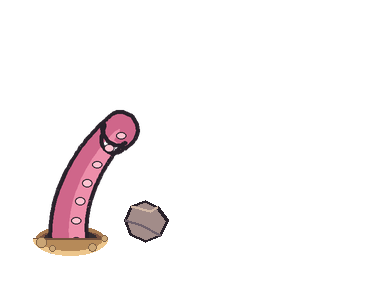
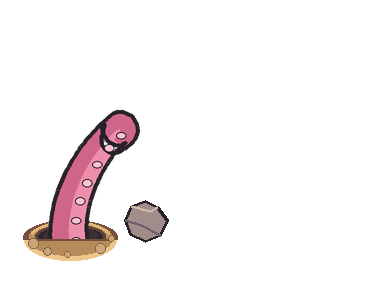
보스: 반쪽 난타와 지면 상호작용 개선

Changed region(s): [[0.0625, 0.75, 0.3125, 0.9062]]

diff --git a/tools/render_octopus_boss.py b/tools/render_octopus_boss.py
@@ -68,6 +68,17 @@ def strike(root,side,target,age,duration=1.16):
         (.84,pose(root,side,'rebound',target)),(1,pose(root,side,'idle'))]
     return interpolate(ks,u)
 
+def vertical_slam(root,side,target,age,duration=.48):
+    """A fixed socket winds up, lifts, and drives a broad tip straight down."""
+    x,y=root; tx,ty=target; s=side; u=max(0,min(1,age/duration))
+    idle=pose(root,side,'idle')
+    coil=[(x,y+14),(x-22*s,y-24),(x+8*s,y-92),(x+24*s,y-76)]
+    raised=[(x,y+14),(x+10*s,y-70),(tx-8*s,ty-148),(tx,ty-118)]
+    falling=[(x,y+14),(x+8*s,y-28),(tx-5*s,ty-40),(tx,ty)]
+    rebound=[(x,y+14),(x+8*s,y-36),(tx-15*s,ty-68),(tx-6*s,ty-46)]
+    keys=[(0,idle),(.18,coil),(.37,raised),(.56,falling),(.67,falling),(.80,rebound),(1,idle)]
+    return interpolate(keys,u)
+
 def arm(im,p,visibility=1,flat=0,ground_y=None):
     """Draw a new outline each frame; never stretch a flattened sprite."""
     pts=curve(p); left=[]; right=[]; normals=[]
@@ -95,8 +106,8 @@ def arm(im,p,visibility=1,flat=0,ground_y=None):
             x,y=pts[j]; nx,ny=normals[j]; x+=nx*7; y+=ny*7
             ell(d,(x-5,y-3.8,x+5,y+3.8),LIGHT,INK,1); last=distance
     if flat:
-        x,y=p[-1]; ell(d,(x-30,y-14,x+30,y+15),PINK,INK,3)
-        for dx in (-19,-6,7,20): ell(d,(x+dx-4,y-1,x+dx+4,y+5),LIGHT,INK)
+        x,y=p[-1]; ell(d,(x-39,y-14,x+39,y+15),PINK,INK,3)
+        for dx in (-29,-14,1,16,29): ell(d,(x+dx-4,y-1,x+dx+4,y+5),LIGHT,INK)
     layer=layer.resize((bw,bh),Image.Resampling.LANCZOS)
     if visibility<1:
         # Occlusion plane, not alpha fading: entire curve descends below ground.
@@ -109,14 +120,26 @@ def arm(im,p,visibility=1,flat=0,ground_y=None):
 def hole(im,r,front=False,activity=0):
     x,y=r; d=ImageDraw.Draw(im)
     if not front:
-        ell(d,(x-34,y-9,x+34,y+14),'#79503f', '#a77a51',4)
-        ell(d,(x-26,y-5,x+26,y+10),'#362d31')
+        # Recess, sand bevel, then the dark opening. The arm is drawn over this
+        # layer and the near lip is restored afterward to establish depth.
+        ell(d,(x-47,y-15,x+47,y+19),'#76523e')
+        ell(d,(x-43,y-15,x+43,y+17),'#bd925d','#79533d',2)
+        ell(d,(x-35,y-11,x+35,y+13),'#30272e','#63423b',3)
+        ell(d,(x-27,y-8,x+27,y+9),'#3d3035')
+        d.arc((x-40,y-14,x+40,y+16),190,350,fill='#e1b878',width=3)
     else:
-        d.pieslice((x-37,y-13,x+37,y+20),0,180,fill='#b68a59',outline='#74513d',width=2)
-        d.arc((x-37,y-13,x+37,y+20),0,180,fill='#edc68c',width=5)
-        for dx,dy,rr in [(-29,7,5),(22,12,4),(34,3,3),(-18,13,3)]:
+        d.pieslice((x-46,y-16,x+46,y+25),0,180,fill='#b68a59',outline='#74513d',width=2)
+        d.arc((x-46,y-16,x+46,y+25),0,180,fill='#edc68c',width=5)
+        for dx,dy,rr in [(-37,8,5),(30,13,5),(41,3,3),(-23,16,4),(-3,19,3)]:
             ell(d,(x+dx-rr,y+dy-rr,x+dx+rr,y+dy+rr),'#caa575','#846448',1)
     if activity>0:
+        # Small foreground clods rise from the lip, keeping the socket embedded
+        # in the field instead of reading as a flat overlay.
+        for j in range(4):
+            a=j*math.tau/4+0.4; rr=31+activity*12
+            xx=x+math.cos(a)*rr; yy=y+math.sin(a)*rr*.22-activity*13
+            sz=3+(j%2)*2
+            ell(d,(xx-sz,yy-sz*.6,xx+sz,yy+sz*.6),'#aa8054','#76543e',1)
         for j in range(7):
             a=j*2.399; rr=12+activity*26+j%3*4
             xx=x+math.cos(a)*rr; yy=y+math.sin(a)*rr*.35-activity*14
@@ -124,7 +147,7 @@ def hole(im,r,front=False,activity=0):
 
 def impact(im,pos,age,wide=False):
     if not 0<=age<.40:return
-    x,y=pos; u=age/.4; d=ImageDraw.Draw(im); rx=(64 if wide else 24)+u*43
+    x,y=pos; u=age/.4; d=ImageDraw.Draw(im); rx=(94 if wide=='barrage' else 64 if wide else 24)+u*(58 if wide=='barrage' else 43)
     d.ellipse((x-rx,y-rx*.28,x+rx,y+rx*.28),outline='#fff0c2',width=max(1,round(5*(1-u))))
     for j in range(9):
         a=j*2.399; r=(15+u*55)*(1+j%3*.15); xx=x+math.cos(a)*r; yy=y+math.sin(a)*r*.45-math.sin(u*math.pi)*16
@@ -242,7 +265,12 @@ class Renderer:
             d.text((810,15),labels[cycle],font=FONT,fill='#ffccdc')
             if .25<=u<4.9:warning(im,box,min(1,(u-.25)*2))
             b0,b1,b2,b3=box
-            emerged=[(lerp(b0+40,b2-40,(i%3)/2),lerp(b1+50,b3-13,i//3)) for i in range(6)]
+            if b2-b0 > b3-b1:
+                # A broad top/bottom zone gets six distinct vertical lanes.
+                emerged=[(lerp(b0+24,b2-24,i/5),b1+17) for i in range(6)]
+            else:
+                # A narrow left/right zone gets two columns by three rows.
+                emerged=[(lerp(b0+38,b2-38,i%2),lerp(b1+30,b3-65,i//2/2)) for i in range(6)]
             for i,r in enumerate(ROOTS):
                 s=1 if i<3 else -1
                 if u<.8:
@@ -253,16 +281,21 @@ class Renderer:
                     roots[i]=emerged[i];dep=180*(1-smooth((u-1.1)/.6));ps[i]=ground_pose(roots[i],s,dep);visibility[i]=.5;dust[i]=math.sin(math.pi*(u-1.1)/.6)
                 elif u<4.7:
                     roots[i]=emerged[i]
-                    beat=.48; offset=i*.072; age=(u-1.7+offset)%beat; n=int((u-1.7+offset)/beat)
-                    # Three columns and two staggered rows physically cover the half.
-                    tx=lerp(b0+32,b2-32,1-(i%3)/2)+math.sin(n*2.4+i)*12
-                    if i%3==1:tx=b0+65 if n%2 else b2-65
-                    ty=lerp(b1+30,b3-20,i//3)+math.cos(n*2+i)*12
-                    target=(tx,ty);ps[i]=strike(roots[i],s,target,age,beat)
+                    beat=.40; offset=i*.055; phase=u-1.7+offset; age=phase%beat; n=int(phase/beat)
+                    # Every root stays planted; each arm winds up and drops into
+                    # a neighboring vertical lane so the middle is struck too.
+                    rx,ry=roots[i]
+                    if b2-b0 > b3-b1:
+                        tx=max(b0+24,min(b2-24,rx+math.sin(n*1.8+i)*9))
+                        ty=b3-20
+                    else:
+                        tx=max(b0+28,min(b2-28,rx+math.sin(n*1.8+i)*8))
+                        ty=min(b3-18,ry+72+math.cos(n+i)*8)
+                    target=(tx,ty);ps[i]=vertical_slam(roots[i],s,target,age,beat)
                     if u<1.9:ps[i]=[mix(a,b,smooth((u-1.7)/.2)) for a,b in zip(pose(roots[i],s,'idle'),ps[i])]
-                    if .52<age/beat<.77:trails.append(strike(roots[i],s,target,max(0,age-.035),beat))
-                    flats[i]=.66<=age/beat<=.77
-                    effects.append((target,age-.68*beat,True))
+                    if .52<age/beat<.77:trails.append(vertical_slam(roots[i],s,target,max(0,age-.035),beat))
+                    flats[i]=.56<=age/beat<=.70
+                    effects.append((target,age-.60*beat,'barrage'))
                 elif u<5.3:
                     roots[i]=emerged[i];ps[i]=ground_pose(roots[i],s,180*smooth((u-4.7)/.6));visibility[i]=.5;dust[i]=math.sin(math.pi*(u-4.7)/.6)
                 elif u<5.6:
@@ -318,13 +351,18 @@ def sheets():
                 throw=[r,(100,140),(170,70),(210,100)]
                 p=interpolate([(0,pose(r,s,'idle')),(.24,low),(.46,low),(.82,load),(1.08,load),(1.24,throw),(1.50,pose(r,s,'approach',(280,220))),(1.92,pose(r,s,'idle'))],t)
             else:p=func(t)
-            hole(cell,(70,235) if name!='ground' else (170,235));arm(cell,p,.5 if name=='ground' else 1, name=='slam' and .68<=t/1.16<=.74,235)
+            activity=0
+            if name=='ground':
+                phase=(t if t<1.2 else t-1.2)/1.2
+                activity=math.sin(math.pi*phase)
+            hole(cell,(70,235) if name!='ground' else (170,235),activity=activity)
+            arm(cell,p,.5 if name=='ground' else 1, name=='slam' and .68<=t/1.16<=.74,235)
             if name=='grip-throw':
                 if t<.24:rock(cell,(145,220))
                 elif t<1.24:grip(cell,p[-1],1)
                 elif t<1.92:
                     u=(t-1.24)/.88;pt=mix(throw[-1],(300,220),u);rock(cell,(pt[0],pt[1]-math.sin(math.pi*u)*60),23,u*4)
-            hole(cell,(170,235) if name=='ground' else (70,235),True)
+            hole(cell,(170,235) if name=='ground' else (70,235),True,activity if name=='ground' else 0)
             crop=cell.crop((0,0,384,288));sheet.alpha_composite(crop,((j%8)*384,(j//8)*288))
             if j==0:crop.save(asset/f'{name}-first.png')
             if name=='grip-throw' and j==20:crop.save(asset/'rock-held.png')
@@ -346,7 +384,7 @@ def sheets():
     layer=Image.new('RGBA',(96,96));rock(layer,(48,48));layer.save(asset/'rock.png')
     manifest['mirroring']={'right_arm':'flip horizontally inside a 384x288 cell','right_root_pivot_px':[314,235]}
     manifest['durations']={'01-pattern.gif':5.6,'02-pattern.gif':6.8,'03-pattern.gif':9.2,'04-pattern.gif':26.4}
-    manifest['half_arena']={'order':['top','bottom','left','right'],'cycle_seconds':6.6,'barrage_seconds':3,'arm_count':6,'root_changes':'only while fully occluded below ground'}
+    manifest['half_arena']={'order':['top','bottom','left','right'],'cycle_seconds':6.6,'barrage_seconds':3,'arm_count':6,'barrage_axis':'vertical down','per_arm_cycle_seconds':0.4,'roots_fixed_during_barrage':True,'root_changes':'only while fully occluded below ground'}
     (asset/'manifest.json').write_text(json.dumps(manifest,ensure_ascii=False,indent=2),encoding='utf-8')
 
 def main():

diff --git a/docs/검증/giant-octopus-boss/README.md b/docs/검증/giant-octopus-boss/README.md
@@ -13,9 +13,11 @@
 | 01-pattern.gif | 상단→중앙→하단 한 쌍씩 내려찍기, 이전 경고 해제와 플레이어 회피 | 5.60초 / 25fps |
 | 02-pattern.gif | 여섯 팔 각 5회, 총 30회, 0.16초 릴레이 | 6.80초 / 25fps |
 | 03-pattern.gif | 받치기·감기·들기·젖히기·던지기·착탄, 바위 총 8개 | 9.20초 / 25fps |
-| 04-pattern.gif | 상·하·좌·우 순서. 각 방향 잠복·출현·3초 난타·잠복·복귀 | 26.40초 / 25fps |
+| 04-pattern.gif | 상·하·좌·우 순서. 각 방향 잠복·출현·3초 수직 내려치기 난타·잠복·복귀 | 26.40초 / 25fps |
 | 05-detail.gif | 내려찍기 → 지면 출입 → 돌 잡기·투척 확대 | 768×576 / 25fps |
 | qa-1~4-consecutive.jpg | 저장된 실제 GIF를 다시 디코딩한 연속 12프레임 | 육안 검토용 |
+| qa-barrage-directions.jpg | 실제 난타 GIF에서 추출한 네 방향 연속 프레임 | 육안 검토용 |
+| qa-ground-detail.jpg | 구덩이 출입 GIF에서 추출한 연속 확대 프레임 | 육안 검토용 |
 | qa-detail.png | 저장된 확대 GIF에서 추출한 연속 프레임 | 육안 검토용 |
 | qa-report.json | GIF 시간·프레임·투명도·공격 수 확인 | 최종 출력 기준 |
 
@@ -54,7 +56,8 @@ rock-held.png, rock.png, ground-back.png, ground-front.png.
 
 - 실제 GIF의 접촉·투척 연속 프레임을 디코딩해서 확인했다. 확대 팔의 링 외곽선과 GIF 팔레트를 수정했다.
 - 30회 이벤트는 팔마다 5개씩, 카운터는 접촉 이후 증가한다. 여섯 뿌리는 공격 동안 고정된다.
-- 반쪽 난타는 여섯 촉수의 교차하는 실루엣, 넓은 끝 타격, 모래 분출·겹치는 충격파·짧은 잔상으로 표현했다.
+- 반쪽 난타는 여섯 촉수의 뿌리를 고정하고 각 팔을 수직으로 내려친다. 넓은 끝 타격, 모래 분출·겹치는 충격파·짧은 잔상으로 중앙을 포함한 지정 구역을 덮는다. 팔별 반복 간격은 0.40초다.
+- 지면 출입은 움푹한 어두운 구멍, 밝은 모래 경사, 앞쪽 흙턱·자갈, 출입 먼지를 구멍 뒤→팔→앞턱 순서로 겹쳤다. 05-detail.gif에서 지면 아래 이동과 출현을 확대해 확인했다.
 - 지정 구역으로의 뿌리 이동은 완전히 지하에 가려진 뒤에만 이루어진다. 원래 위치 복귀도 같은 규칙이다.
 - 원본 필드는 픽셀 아트, 보스는 요청한 굵은 선의 분홍 만화체다. GIF는 256색이고 촉수는 절차적 드로잉이므로 참고 영상의 손작화 품질과 같다고 보장하지 않는다.
 - 체력·무력화·그로기 10초·본체 약점은 추후 전투 구조로만 유지했다. 이번 GIF는 네 공격을 검토하는 시안이며 해당 전투 상태 전환을 구현하지 않는다.

diff --git a/docs/구조/monsters/NOTES.md b/docs/구조/monsters/NOTES.md
@@ -1,5 +1,7 @@
 # 최근 변경
 
+- 2026-10-19: 거대 문어 반쪽 난타를 뿌리 고정형 수직 내려치기로 조정해 지정 구역 중앙까지 촉수 실루엣이 닿게 했다. 구덩이의 안쪽 어둠·모래 경사·앞턱과 출입 먼지를 강화했다. Unity 적용 없이 독립 GIF/에셋만 갱신.
+
 - 2026-10-19: `docs/검증/giant-octopus-boss`에 스케치 기반 독립 보스 GIF 5개, 필드 합성 PNG, 투명 에셋·연결 시트·피벗 명세 추가. `tools/render_octopus_boss.py`로 Unity 없이 재제작하며 게임 코드에는 적용하지 않았다.
 
 - 2026-10-13: 일반 적 하위 유형으로 거대 게·소라게·해파리·불가사리·성게 추가. 서버가 상태·피해·이동·사망을 판정하며 기존 25바이트 스냅샷의 적 duration 필드에 종류/상태/방향을 인코딩한다. 일반 속성 적의 duration 값은 기존대로 유지.

diff --git a/docs/구조/monsters/README.md b/docs/구조/monsters/README.md
@@ -38,7 +38,9 @@
 - `Source/문어_유한맵/../../docs/검증/giant-octopus-boss/qa-2-consecutive.jpg`
 - `Source/문어_유한맵/../../docs/검증/giant-octopus-boss/qa-3-consecutive.jpg`
 - `Source/문어_유한맵/../../docs/검증/giant-octopus-boss/qa-4-consecutive.jpg`
+- `Source/문어_유한맵/../../docs/검증/giant-octopus-boss/qa-barrage-directions.jpg`
 - `Source/문어_유한맵/../../docs/검증/giant-octopus-boss/qa-detail.png`
+- `Source/문어_유한맵/../../docs/검증/giant-octopus-boss/qa-ground-detail.jpg`
 - `Source/문어_유한맵/../../docs/검증/giant-octopus-boss/qa-report.json`
 - `Source/문어_유한맵/../../docs/검증/giant-octopus-boss/README.md`
 - `Source/문어_유한맵/../../docs/검증/giant-octopus-boss/video-reference.jpg`
